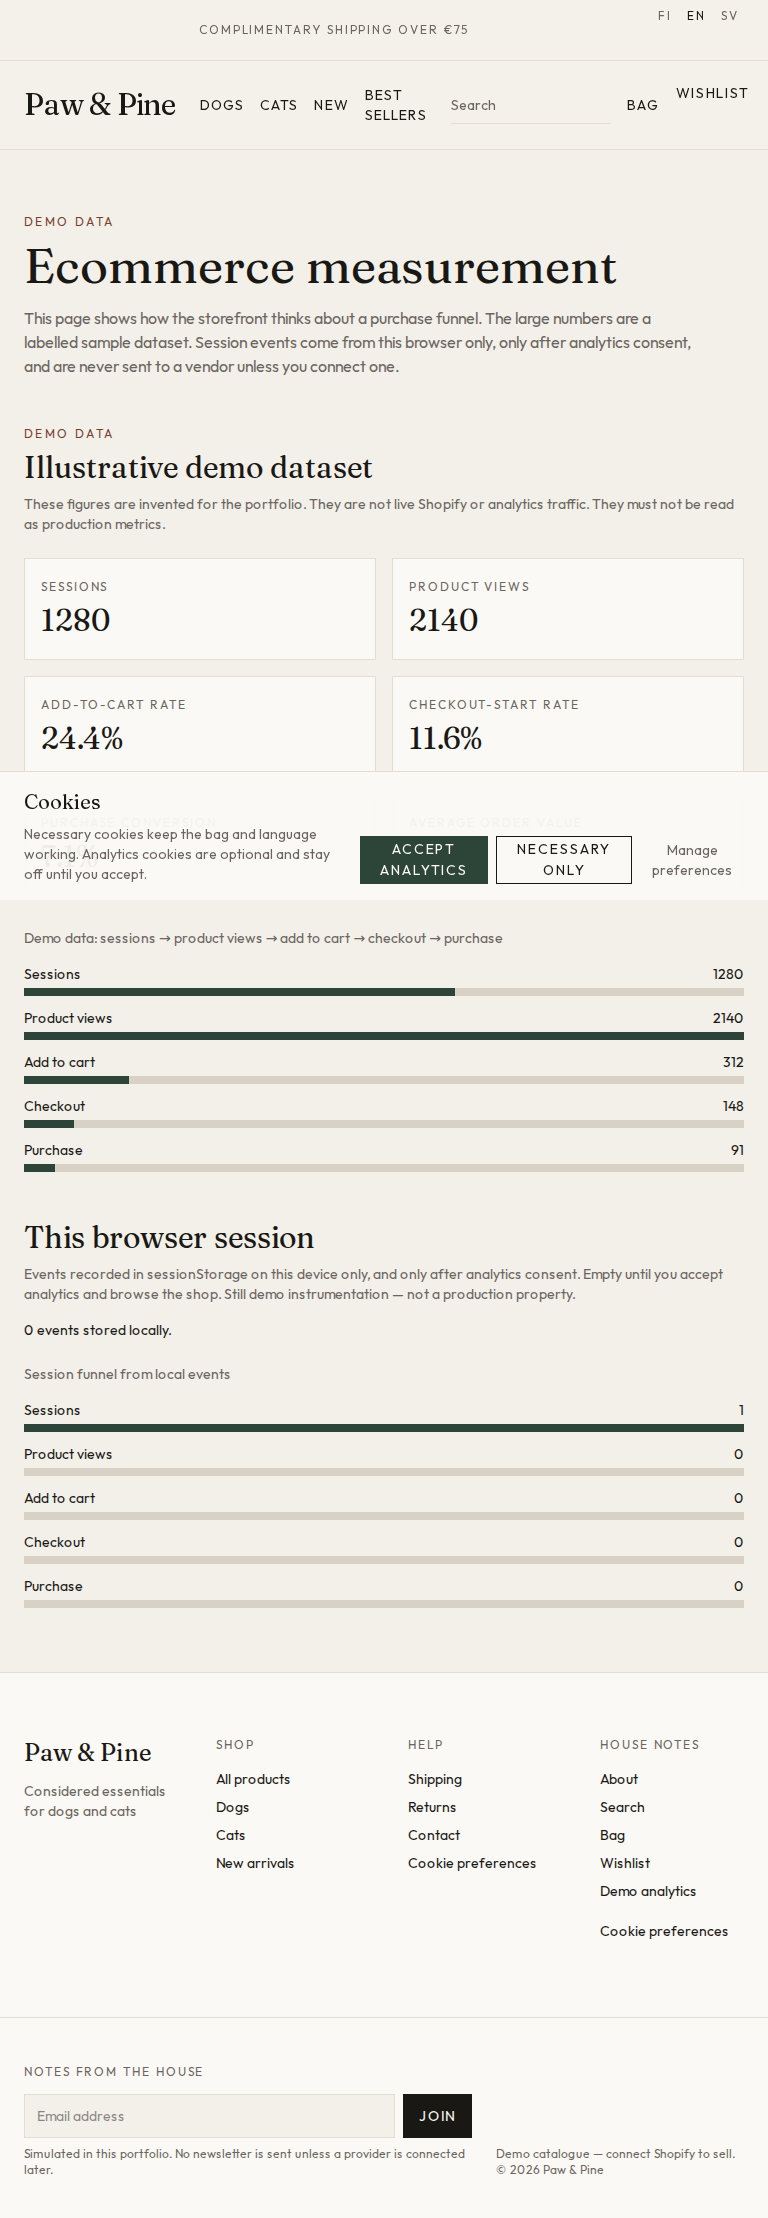
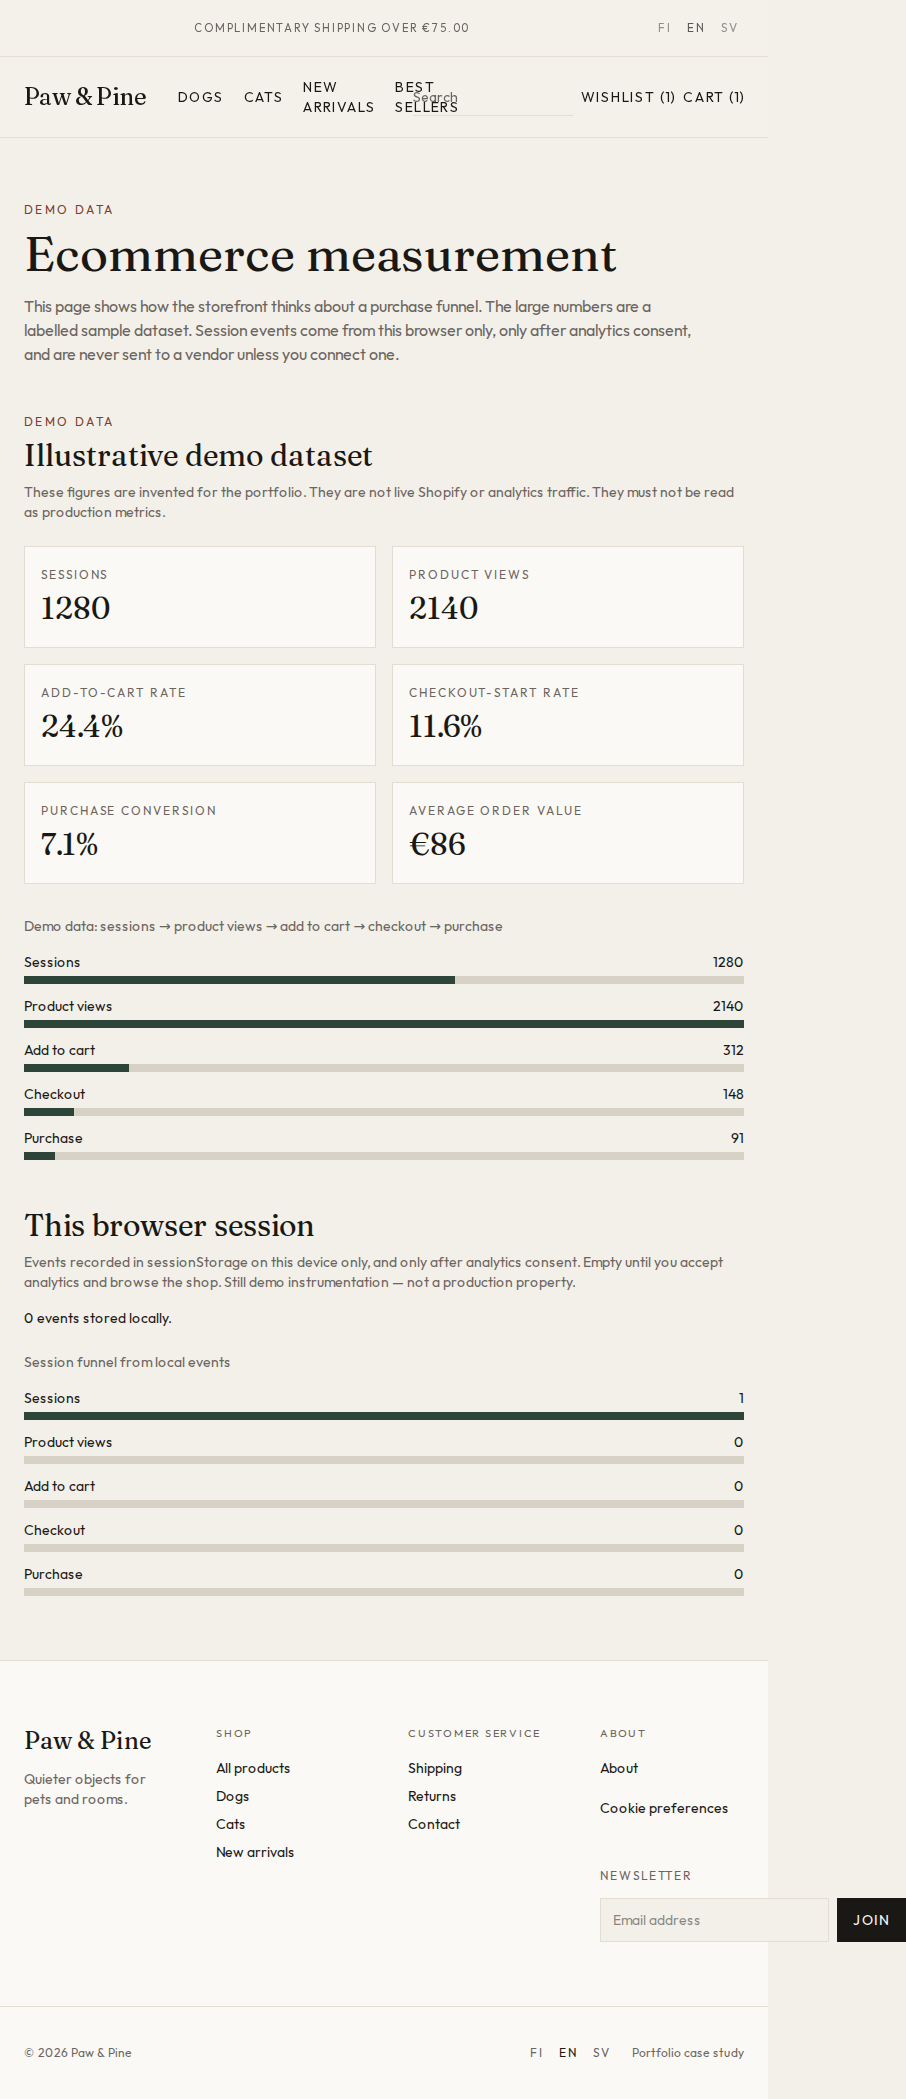
Update Makefile and add screenshot capture functionality
- Added a new `screenshots` target in the Makefile to facilitate capturing documentation screenshots.
- Introduced a new script `capture-screenshots.sh` to automate the screenshot capturing process using Playwright.
- Updated `screenshots.spec.ts` to include additional routes for capturing case study screenshots.
- Added new screenshot files for case studies and updated the README to reflect the changes in screenshot documentation.

diff --git a/e2e/screenshots.spec.ts b/e2e/screenshots.spec.ts
@@ -3,28 +3,66 @@ import path from "node:path";
 
 test("capture storefront screenshots", async ({ page }) => {
   test.skip(!process.env.SCREENSHOTS, "Set SCREENSHOTS=1 to write docs/screenshots");
+  test.setTimeout(180_000);
 
   const out = path.join(process.cwd(), "docs", "screenshots");
-  const routes = [
-    { url: "/en", name: "home" },
-    { url: "/en/collections/dogs", name: "collection" },
-    { url: "/en/products/trail-harness", name: "product" },
-    { url: "/en/cart", name: "cart" },
-    { url: "/en/wishlist", name: "wishlist" },
-    { url: "/en/search?q=oak", name: "search" },
-    { url: "/en/cookies", name: "cookies" },
-    { url: "/en/demo/analytics", name: "analytics" },
-  ];
+
+  async function visit(url: string) {
+    await page.goto(url);
+    await page.waitForLoadState("networkidle");
+    const necessary = page.getByRole("button", { name: /necessary only/i });
+    if (await necessary.isVisible().catch(() => false)) {
+      await necessary.click();
+      await page.getByRole("region", { name: "Cookies" }).waitFor({ state: "hidden" });
+    }
+    await page.waitForTimeout(300);
+  }
+
+  async function shoot(name: string, width: number) {
+    await page.screenshot({
+      path: path.join(out, `${name}-${width}.png`),
+      fullPage: true,
+      animations: "disabled",
+    });
+  }
+
+  await page.setViewportSize({ width: 1440, height: 900 });
+  await visit("/en/products/oakwood-chew-ring");
+  await page.getByRole("button", { name: /add to cart/i }).click();
+  const bag = page.getByRole("dialog", { name: "Cart" });
+  await bag.waitFor();
+  await bag.getByRole("button", { name: /^close$/i }).click();
+  await bag.waitFor({ state: "hidden" });
+  await page.getByRole("button", { name: "Save Oakwood Chew Ring to wishlist" }).click();
 
   for (const width of [375, 768, 1440] as const) {
     await page.setViewportSize({ width, height: width === 375 ? 812 : 900 });
-    for (const route of routes) {
-      await page.goto(route.url);
-      await page.waitForLoadState("networkidle");
-      await page.screenshot({
-        path: path.join(out, `${route.name}-${width}.png`),
-        fullPage: true,
-      });
-    }
+
+    await visit("/en");
+    await shoot("home", width);
+
+    await visit("/en/collections/dogs");
+    await shoot("collection", width);
+
+    await visit("/en/products/trail-harness");
+    await shoot("product", width);
+
+    await visit("/en/cart");
+    await shoot("cart", width);
+
+    await visit("/en/wishlist");
+    await shoot("wishlist", width);
+
+    await visit("/en/search?q=oak");
+    await shoot("search", width);
+
+    await visit("/en/cookies");
+    await shoot("cookies", width);
+
+    await visit("/en/demo/analytics");
+    await shoot("analytics", width);
+
+    await visit("/en/case-study");
+    await shoot("case-study", width);
   }
 });

diff --git a/docs/screenshots/README.md b/docs/screenshots/README.md
@@ -1,6 +1,10 @@
-Captured from the production build (Playwright, `SCREENSHOTS=1 npm run test:e2e -- e2e/screenshots.spec.ts`).
+Captured from the demo production build (Playwright). English routes (`/en`) so labels stay stable in hiring screenshots.
 
-English routes (`/en`) so labels stay stable in hiring screenshots.
+```bash
+bash scripts/capture-screenshots.sh
+```
+
+Cookie banner is dismissed. Cart and wishlist are seeded with Oakwood Chew Ring before capture.
 
 |            | 375px                                    | 768px                                    | 1440px                                     |
 | ---------- | ---------------------------------------- | ---------------------------------------- | ------------------------------------------ |
@@ -12,3 +16,4 @@ English routes (`/en`) so labels stay stable in hiring screenshots.
 | Search     | [search-375.png](search-375.png)         | [search-768.png](search-768.png)         | [search-1440.png](search-1440.png)         |
 | Cookies    | [cookies-375.png](cookies-375.png)       | [cookies-768.png](cookies-768.png)       | [cookies-1440.png](cookies-1440.png)       |
 | Analytics  | [analytics-375.png](analytics-375.png)   | [analytics-768.png](analytics-768.png)   | [analytics-1440.png](analytics-1440.png)   |
+| Case study | [case-study-375.png](case-study-375.png) | [case-study-768.png](case-study-768.png) | [case-study-1440.png](case-study-1440.png) |
